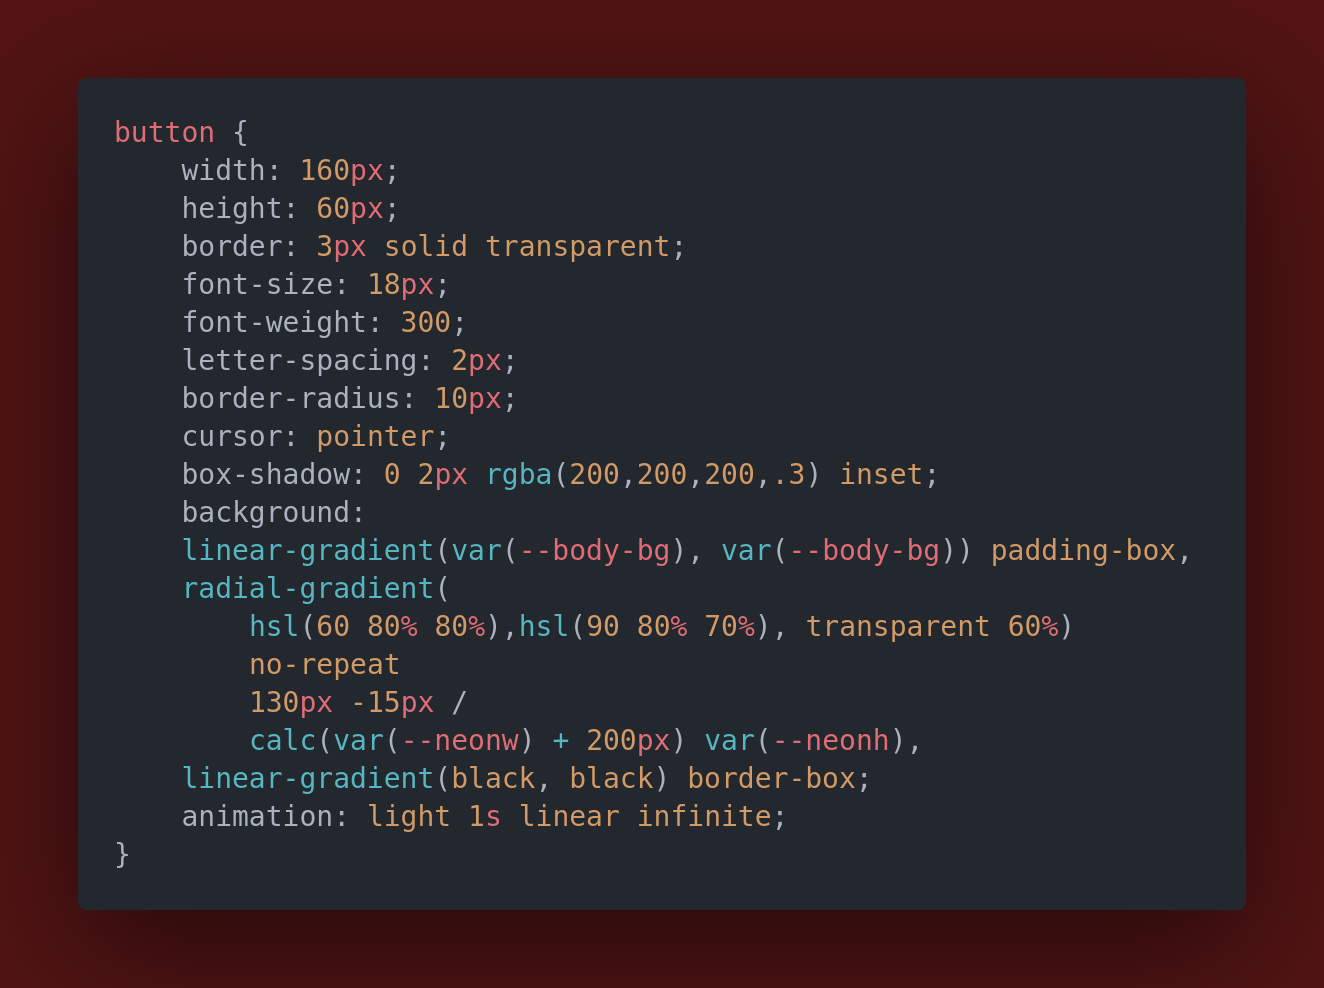
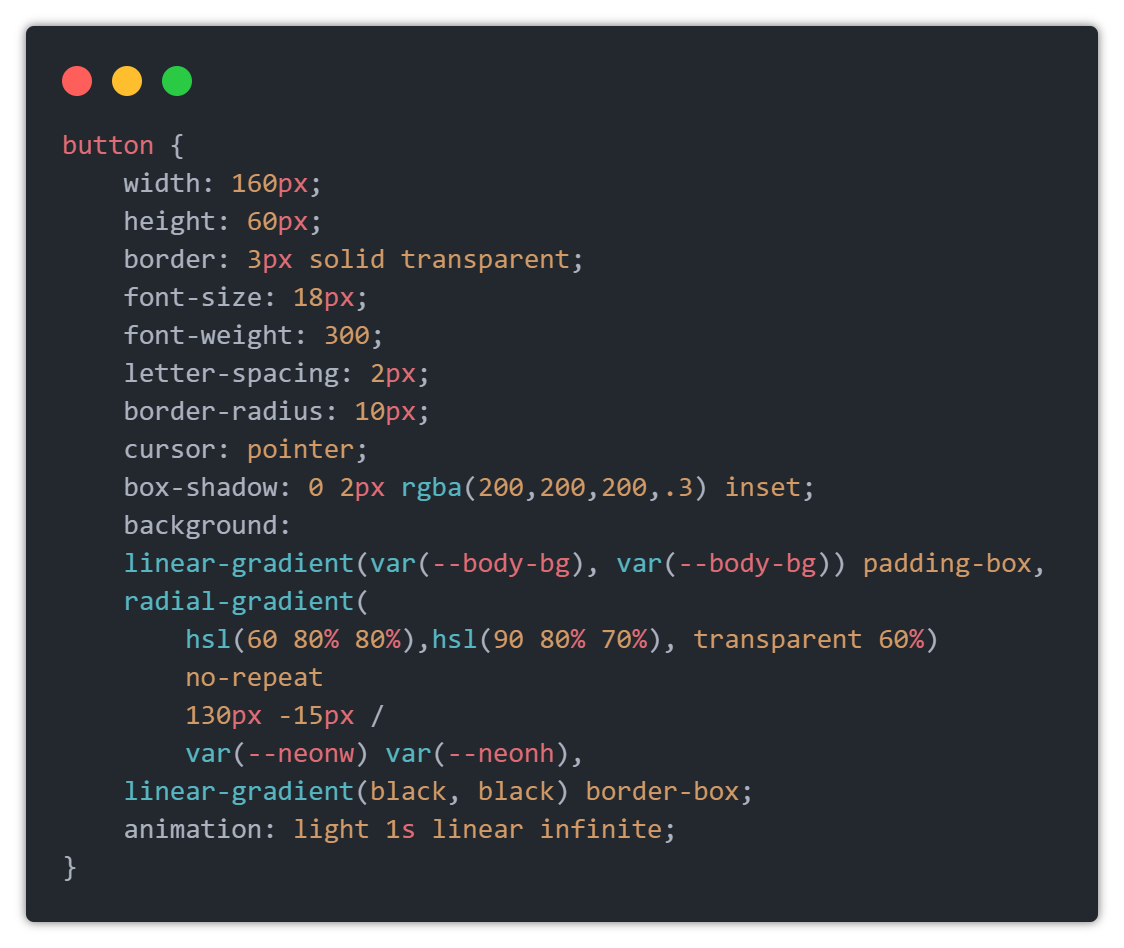
removed extend code

diff --git a/style.css b/style.css
@@ -15,59 +15,24 @@ button {
         hsl(60 80% 80%),hsl(90 80% 70%), transparent 60%)
         no-repeat
         130px -15px /
-        calc(var(--neonw) + 200px) var(--neonh),
+        var(--neonw) var(--neonh),
     linear-gradient(black, black) border-box;
     animation: light 1s linear infinite;
 }
 @keyframes light {
     0% {
-        background:
-        linear-gradient(var(--body-bg), var(--body-bg)) padding-box,
-        radial-gradient(
-            hsl(60 80% 80%),hsl(90 80% 70%), transparent 60%)
-            no-repeat
-            125px -15px /
-            var(--neonw) var(--neonh),
-        linear-gradient(black, black) border-box
+        background-position: 125px -15px;
     }
     33% {
-        background:
-        linear-gradient(var(--body-bg), var(--body-bg)) padding-box,
-        radial-gradient(
-            hsl(60 80% 80%),hsl(180 80% 70%), transparent 60%)
-            no-repeat
-            -25px -15px /
-            var(--neonw) var(--neonh),
-        linear-gradient(black, black) border-box
+        background-position: -25px -15px;
     }
     50% {
-        background:
-        linear-gradient(var(--body-bg), var(--body-bg)) padding-box,
-        radial-gradient(
-            hsl(60 80% 80%),hsl(270 80% 70%), transparent 60%)
-            no-repeat
-            -25px 45px /
-            var(--neonw) var(--neonh),
-        linear-gradient(black, black) border-box
+        background-position: -25px 45px;
     }
     83% {
-        background:
-        linear-gradient(var(--body-bg), var(--body-bg)) padding-box,
-        radial-gradient(
-            hsl(60 80% 80%),hsl(360 80% 70%), transparent 60%)
-            no-repeat
-            125px 45px /
-            var(--neonw) var(--neonh),
-        linear-gradient(black, black) border-box
+        background-position: 125px 45px;
     }
     100% {
-        background:
-        linear-gradient(var(--body-bg), var(--body-bg)) padding-box,
-        radial-gradient(
-            hsl(60 80% 80%),hsl(90 80% 70%), transparent 60%)
-            no-repeat
-            125px -15px /
-            var(--neonw) var(--neonh),
-        linear-gradient(black, black) border-box
+        background-position: 125px -15px;
     }
 }
